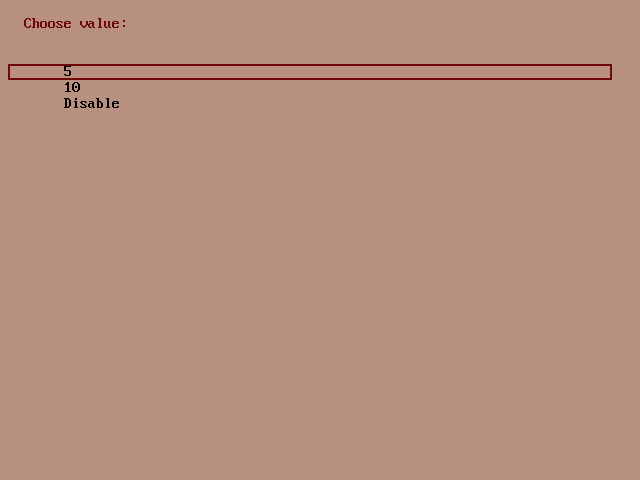
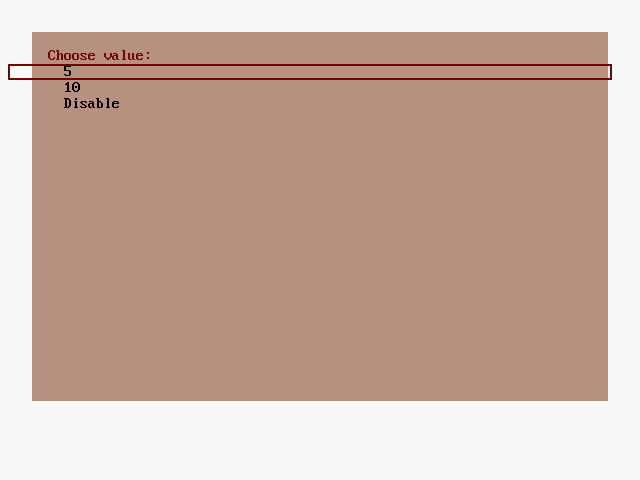
PS2GUI: white screen border + inset mauve panel, upright title (exact Easy-Setup)

diff --git a/Software/PS2GUI/tools/make_tiles.py b/Software/PS2GUI/tools/make_tiles.py
@@ -368,12 +368,9 @@ def load_title_font(sz):
             pass
     return load_font(sz)
 
-f = load_title_font(44)
-tmp = Image.new("L", (460, 72), 255); td = ImageDraw.Draw(tmp)
-td.text((6, 6), "PS2-GUI", font=f, fill=0)
-H = tmp.height
-sh = 0.17                       # right-leaning oblique like the Easy-Setup lettering
-tmp = tmp.transform(tmp.size, Image.AFFINE, (1, -sh, sh * H, 0, 1, 0), fillcolor=255)
+f = load_title_font(46)
+tmp = Image.new("L", (460, 74), 255); td = ImageDraw.Draw(tmp)
+td.text((6, 6), "PS2-GUI", font=f, fill=0)      # upright heavy condensed (no italic)
 bb = tmp.point(lambda v: 255 if v < 128 else 0).getbbox()
 title = tmp.crop(bb)
 tw = ((title.width + 15) // 16) * 16

diff --git a/Software/PS2GUI/README.md b/Software/PS2GUI/README.md
@@ -4,9 +4,9 @@
 *Version 1.0 · by Ahmad Byagowi*
 
 A GUI fork of [PS2TUI](https://github.com/ahmadexp/PS2TUI) that reproduces the PC110's own
-**IBM Easy-Setup** skin — the exact mauve desktop and DAC palette, the white icon tiles in a **5×2
-grid**, the heavy condensed title lettering, the little duck — running entirely in **VGA mode 12h
-(640×480×16)**.
+**IBM Easy-Setup** skin — the white screen border with the inset mauve panel, the exact DAC palette,
+the white icon tiles in a **5×2 grid**, the heavy condensed title lettering, the little duck —
+running entirely in **VGA mode 12h (640×480×16)**.
 
 ![PS2GUI — the main menu](screenshot.png)
 
@@ -30,11 +30,12 @@ The menus are **icon grids**, just like the machine's Easy-Setup:
   icon). Move with the **arrow keys** in two dimensions.
 - **Value pickers** (High / Medium / Low, COM1 / COM2, …) are a short chooser list.
 
-The layout matches Easy-Setup exactly: a **5×2 grid** at the same tile pitch (tiles at x = 72 + col·104,
-y = 150 + row·122), the five-colour DAC palette lifted pixel-for-pixel from a real Easy-Setup capture,
-and the title rendered in a heavy, condensed, right-leaning face (Impact + a small oblique shear) to
-mirror the "Easy-Setup" lettering. Long labels word-wrap to up to three ≤12-char lines so they never
-spill into neighbouring tiles.
+The layout is measured straight off a real Easy-Setup capture: a **white screen** with the **mauve
+panel** inset at (32,32)–(607,400), the copyright on the white margin below it, a **5×2 grid** of white
+tiles at the exact pitch (tiles at x = 80 + col·104, y = 160 + row·112), the five-colour DAC palette
+lifted pixel-for-pixel, and the title in a heavy condensed upright face (Impact) to mirror the
+"Easy-Setup" lettering. Long labels word-wrap to up to three ≤12-char lines so they never spill into
+neighbouring tiles.
 
 The tile artwork — ~50 detailed 48×48 icons, the "PS2-GUI" title and the duck — is generated by
 `tools/make_tiles.py` into `TILES.INC` (`cat_tile[]` maps categories → icons, `row_icon[]` maps every
